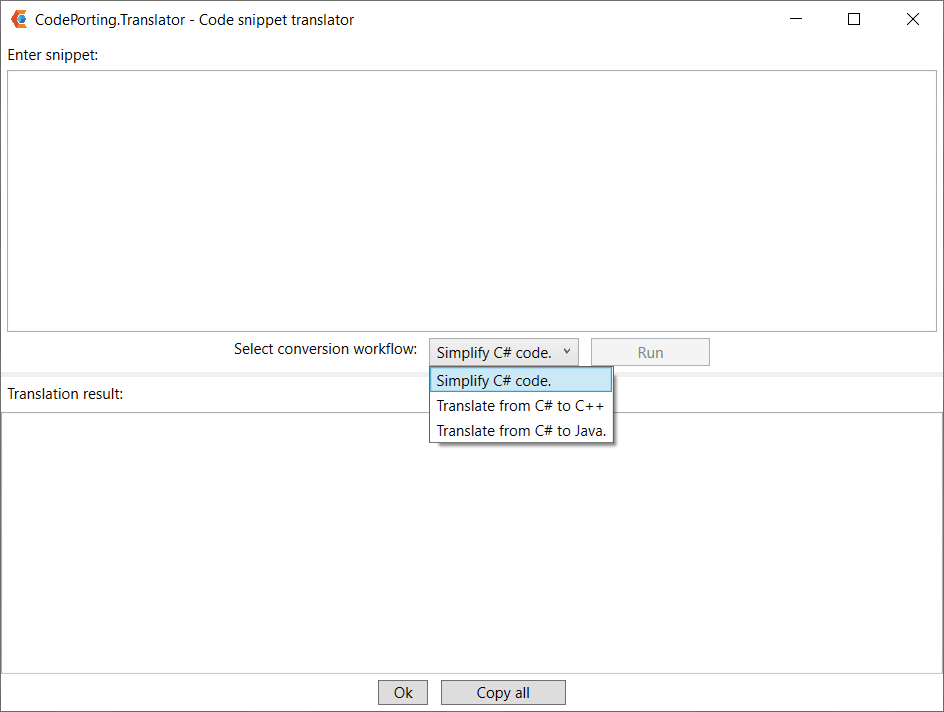
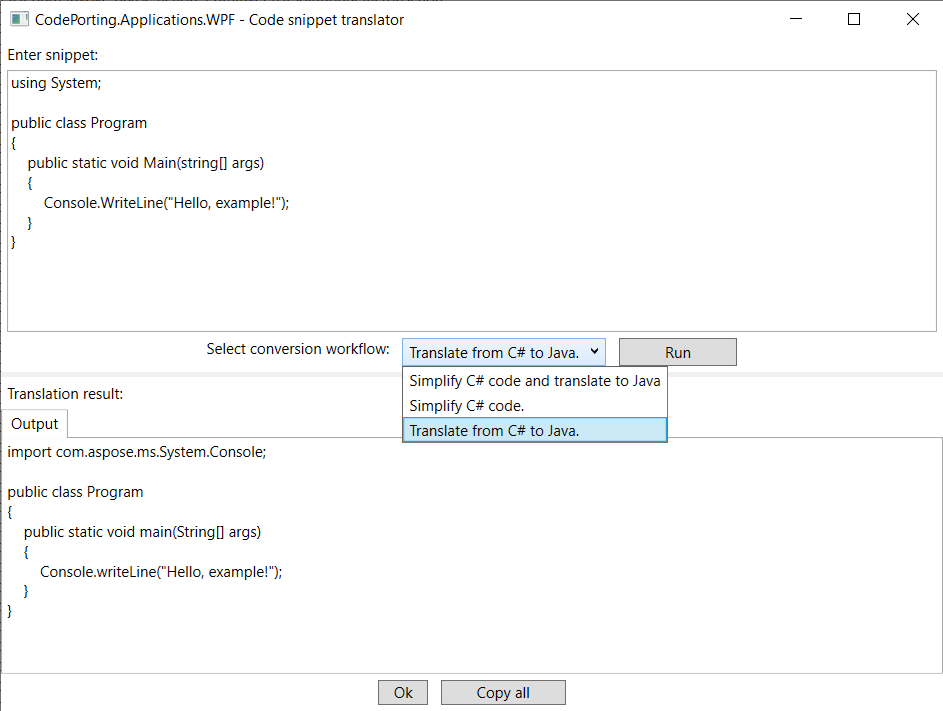
editing wpf articles

diff --git a/en/translator/cs2java/examples/snippet-ex001.md b/en/translator/cs2java/examples/snippet-ex001.md
@@ -3,28 +3,28 @@
 Below is a C# code fragment that can be translated to Java using the CodePorting.Translator Cs2Java porter.
 
 Code snippet C#-001-1
-```
-namespace TestNs
+```cs
+using System;
+
+public class Program
 {
-**class Program**
-{
-**public static void Main**(**string**[] args)
-{
-System.Console.WriteLine("Hello Porter!!!");
-}
-}
+    public static void Main(string[] args)
+    {
+        Console.WriteLine("Hello, example!");
+    }
 }
 ```
 After converting this code into Java code by any of the applications, we get the following result. 
 
 Code snippet Java-001-1
-```
-package TestNs;
-class Program
+```java
+import com.aspose.ms.System.Console;
+
+public class Program
 {
-**public static final void main**(string[] args)
-{
-System.Console.WriteLine("Hello Porter!!!"); 
-}
+    public static void main(String[] args)
+    {
+        Console.writeLine("Hello, example!");
+    }
 }
 ```
